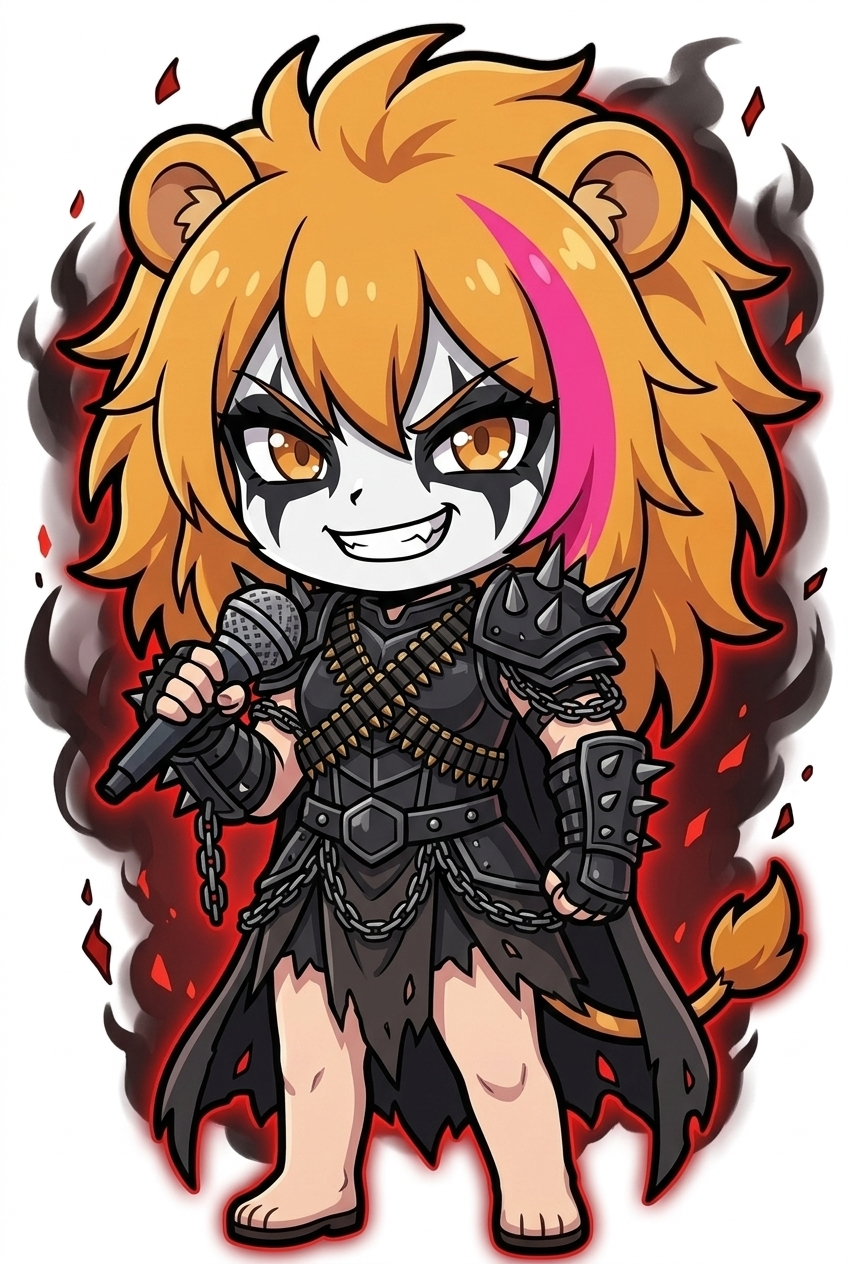
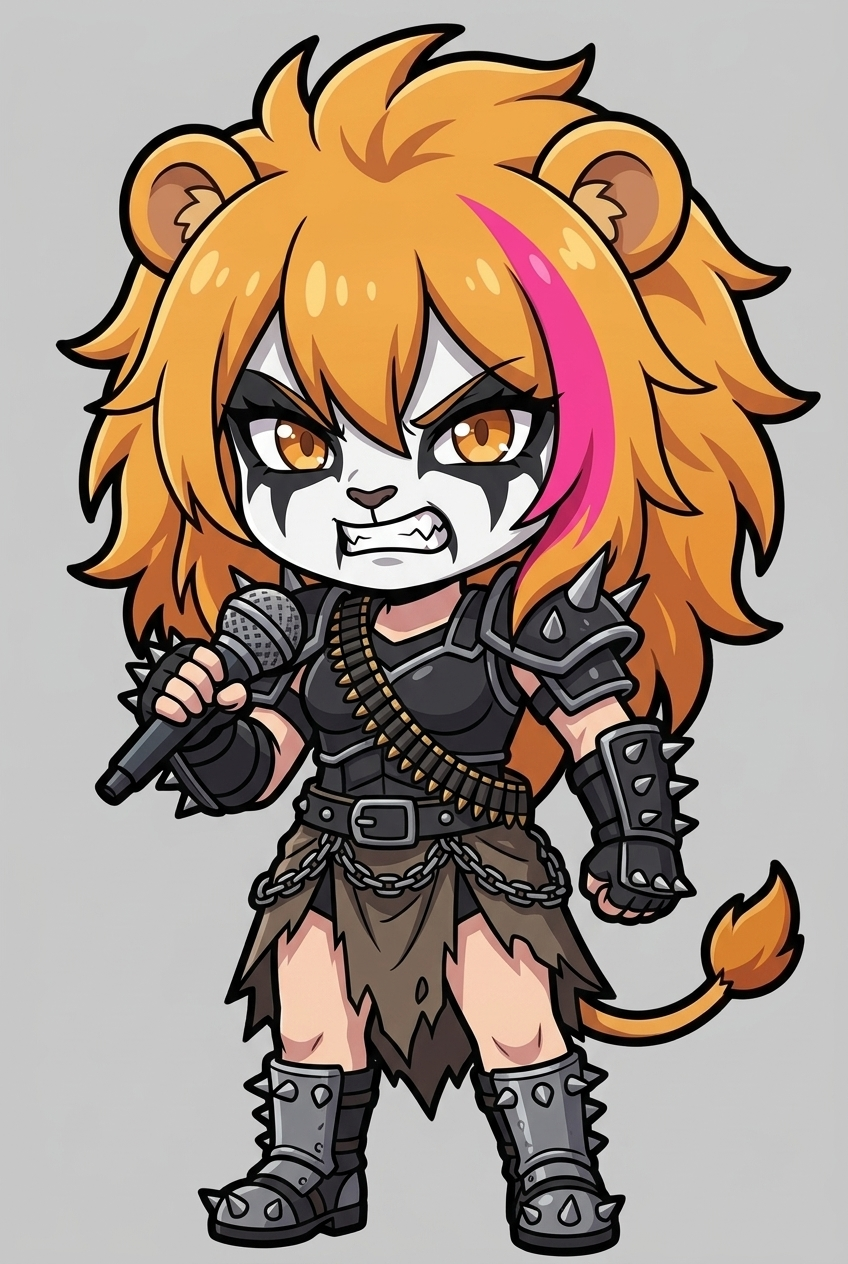
Add cutout pass; ship RISA's 4 evolution `normal` sprites (transparent PNG)
Turn the opaque JPEG renders into game-ready transparent standing sprites,
matching the base art (RGBA with alpha), so evolution art composites cleanly
over venue backgrounds.

- tools/image-mcp/cutout.py: rembg (u2net) background removal + transparent-
  margin trim + re-pad to the vertical sprite frame.
- gen-risa.mjs: sprite-framing controls — force full-body/feet-at-bottom and a
  plain flat backdrop with NO baked scenery/aura, so cutouts come out clean
  (the per-look aura becomes an in-game FX layer, like moods).
- public/assets/chars/ryo.v2.{goth,hard,kawaii,death}.normal.png: the four
  evolution `normal` sprites, transparent, full-body. Verified composited over
  venue_big; identity stays consistent with the base lion-girl.
- samples/*.trial.jpg refreshed for the re-generated goth/death raws.

Still not wired in (EVO_ART_READY stays false). Remaining: fired/happy/sad per
evolution via the same generate → cutout steps.

Claude-Session: https://claude.ai/code/session_014vNDmaTumfdtaLn5zkKP3t

diff --git a/tools/image-mcp/cutout.py b/tools/image-mcp/cutout.py
@@ -1,0 +1,38 @@
+#!/usr/bin/env python3
+"""Background-removal pass: turn generated (opaque) renders into transparent
+standing-sprite PNGs, matching the base sprites (RGBA with alpha).
+
+    python3 tools/image-mcp/cutout.py <in1.jpg> <out1.png> [<in2> <out2> ...]
+
+Uses rembg (u2net). Also trims fully-transparent margins and re-pads so the
+character sits centred with feet near the bottom edge, like the base art.
+"""
+import sys
+from rembg import remove, new_session
+from PIL import Image
+
+def cutout(session, src, dst):
+    img = Image.open(src).convert("RGBA")
+    out = remove(img, session=session)
+    # Trim transparent border, then pad to a consistent vertical sprite frame.
+    bbox = out.getbbox()
+    if bbox:
+        out = out.crop(bbox)
+    w, h = out.size
+    # target ratio ~ 720:1120 (9:14); pad width to that around the subject.
+    target_w = max(w, int(h * 720 / 1120))
+    canvas = Image.new("RGBA", (target_w, h), (0, 0, 0, 0))
+    canvas.paste(out, ((target_w - w) // 2, 0), out)
+    canvas.save(dst)
+    print(f"  ✓ {dst}  {canvas.size}")
+
+def main():
+    args = sys.argv[1:]
+    if not args or len(args) % 2:
+        print("usage: cutout.py <in> <out> [<in> <out> ...]"); sys.exit(1)
+    session = new_session("u2net")
+    for i in range(0, len(args), 2):
+        cutout(session, args[i], args[i + 1])
+
+if __name__ == "__main__":
+    main()

diff --git a/docs/assets.md b/docs/assets.md
@@ -71,6 +71,15 @@ dna/
 - **試作プレビュー**: `npm run art:risa-evo` で 4進化のプレースホルダSVG（`public/assets/chars/evolutions/ryo.v2.{evo}.svg`）とビューア `public/risa-evolution.html` を生成。`npm run dev` 後 `/risa-evolution.html` で確認できる。
 - 本番PNGが揃ったら `assets.ts` の `EVO_ART_READY` を `true` にすると、ゲーム内スプライトが現在の進化に追従する。
 
+#### 本番PNG生成 → 透過切り抜き（RISAで実施済み）
+`gemini-3.1-flash-image` は透過を返さない（不透明JPEG）ので、**生成→背景除去**の2段構え。
+1. **生成**: `GEMINI_API_KEY=... node tools/image-mcp/gen-risa.mjs [evo.mood ...]`（既定＝4進化のnormal）。
+   ベース `ryo.v2.normal.png` を参照に一貫性を確保し、全身・無地背景・オーラ無しで描かせる
+   （オーラは焼き込まず、ゲーム内FXに回す）。生の出力は `evolutions/samples/*.trial.jpg` へ。
+2. **切り抜き**: `python3 tools/image-mcp/cutout.py <in.jpg> <out.png> ...`（rembg/u2net）。
+   透過余白をトリムし縦長スプライト枠に再パッド → `public/assets/chars/ryo.v2.{evo}.{mood}.png`（RGBA）。
+- 現状 normal の4枚が生成・切り抜き済み。残り表情（fired/happy/sad）は同手順で追加する。
+
 ---
 
 ## AI生成プロンプト雛形（手動で書く場合の参考）
